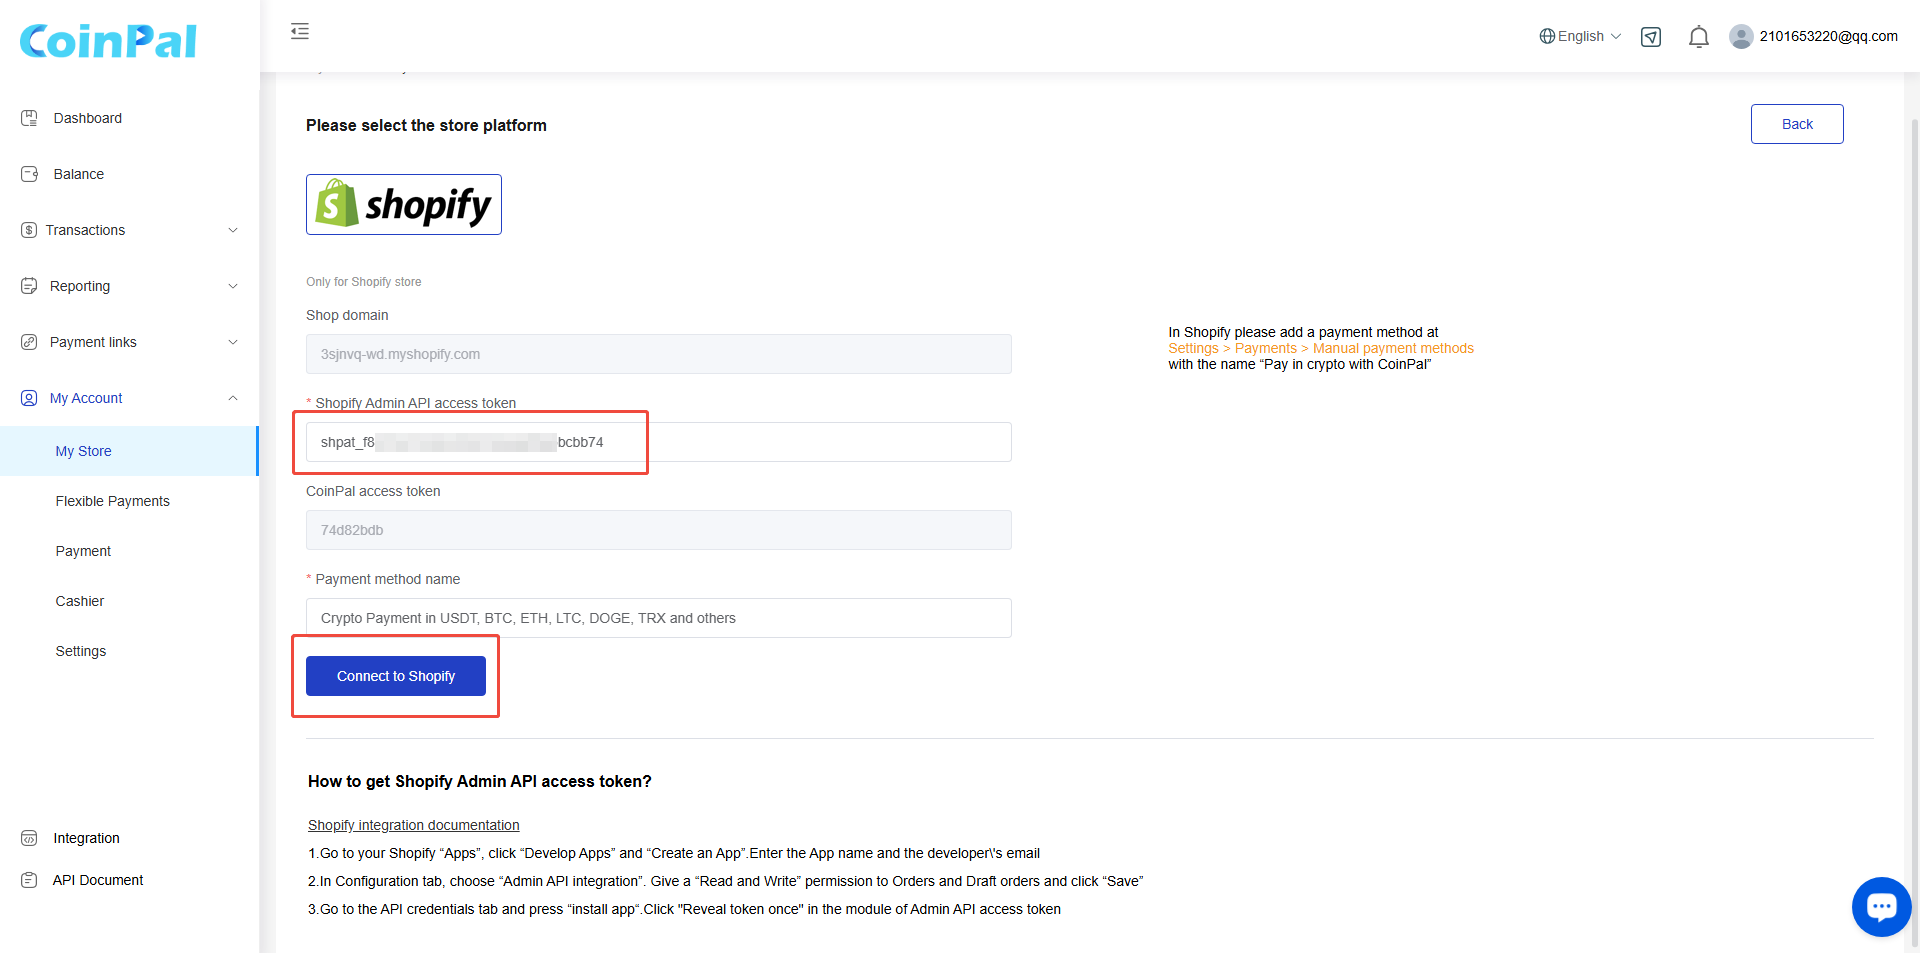
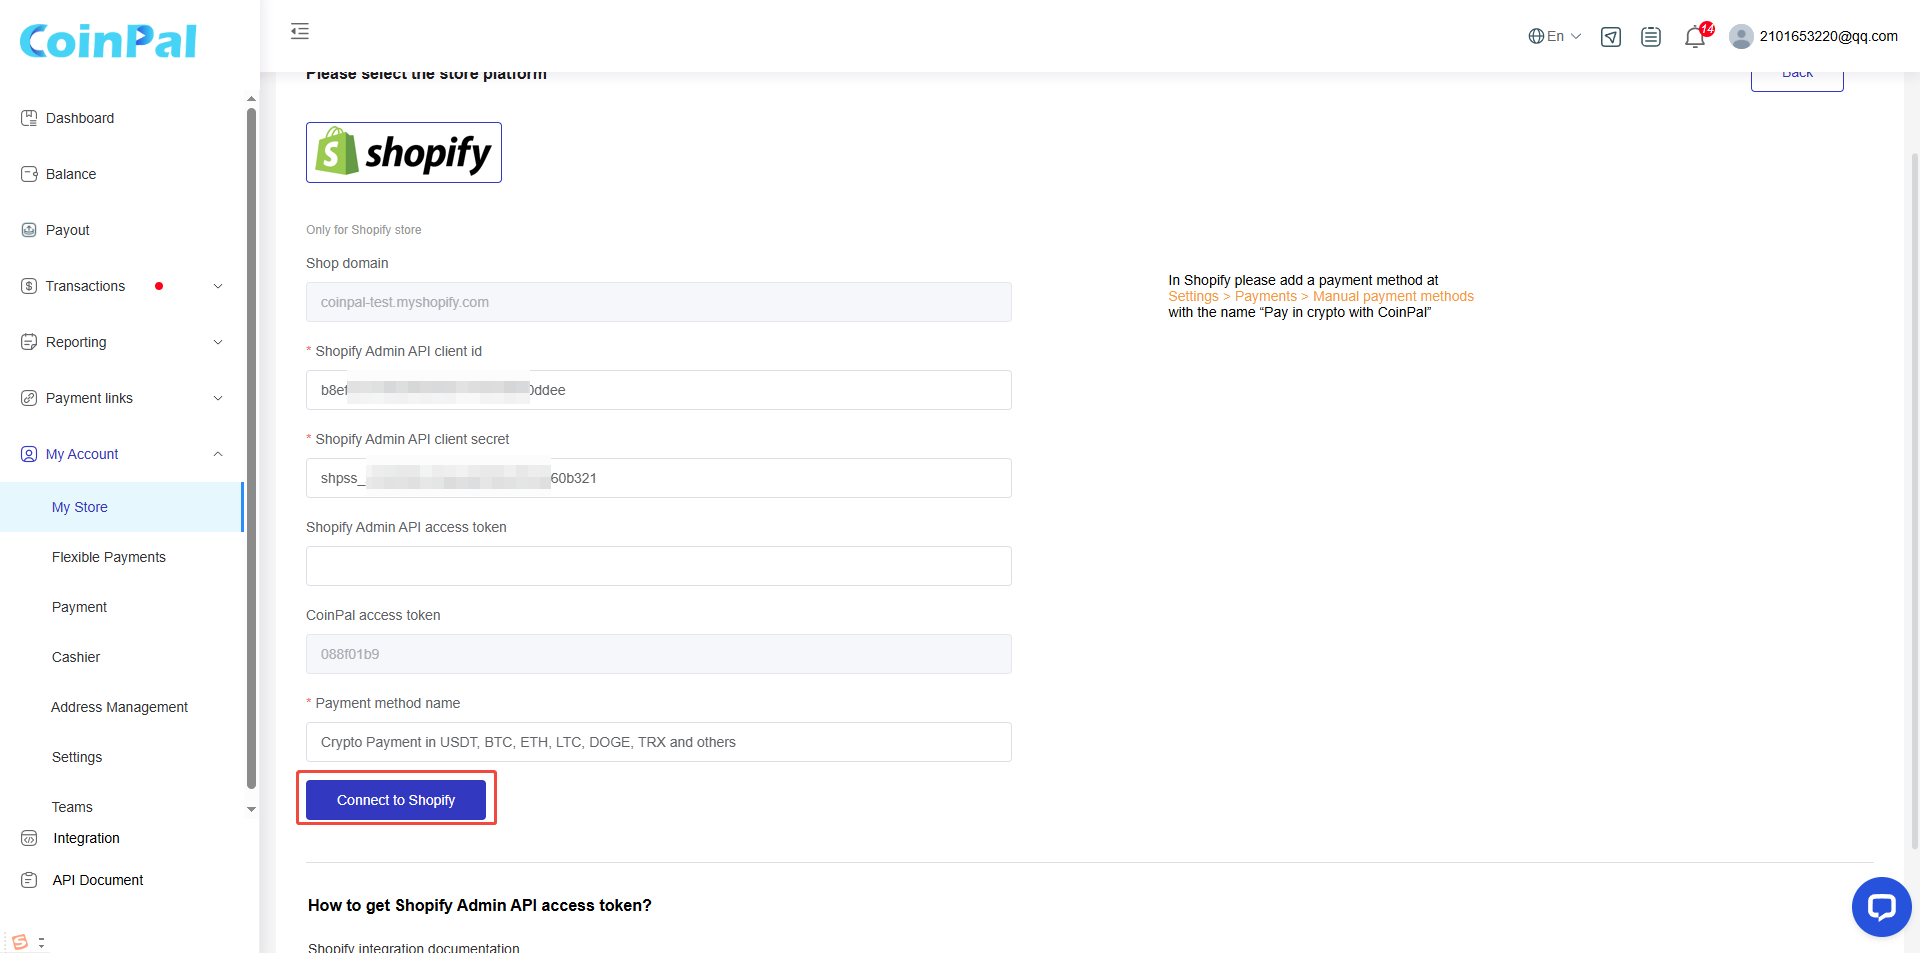
update

diff --git a/README.md b/README.md
@@ -1,24 +1,71 @@
 # How to start accepting crypto on Shopify
 
-## Step 1: Go to your Shopify "Apps", click "Develop Apps" and "Create an App". Enter the App name and the developer's email
+## Step 1: Go to your Shopify "Apps", click "Apps" and "Develop Apps". 
 
 ![](./images/shopify-1.png)
 
-## Step 2: In Configuration tab, choose "Admin API integration". Give a "Read and Write" permission to Orders and Draft orders and click "Save"
+## Step 2: Create Apps.
 
-![](./images/shopify-2.png)
+click "Build apps in Dev Dashboard" and "Create app" and "Create"
 
-## Step 3: Go to the API credentials tab and press "install app". Click "Reveal token once" in the module of Admin API access token
+![](./images/acc1.png)
 
-![](./images/shopify-3.png)
+![](./images/acc2.png)
 
-![](./images/shopify-4.png)
+![](./images/acc3.png)
+
+click "Create version"
+
+![](./images/acc40.png)
+
+click "Request access" 
+
+![](./images/acc41.png)
+
+![](./images/acc42.png)
+
+Select "Store Management" and "App Functionality", then click "Save"
+
+![](./images/acc43.png)
+
+![](./images/acc44.png)
+
+Select "Yes" for all options, then click "Save"
+
+![](./images/acc45.png)
+
+![](./images/acc46.png)
+
+
+Go back to the Coinpal app, open "Versions", then click "Create version"
+
+![](./images/acc47.png)
+
+Select the required permissions, then click "Done" and "Release"
+
+![](./images/acc48.png)
+
+![](./images/acc5.png)
+
+![](./images/acc6.png)
+
+![](./images/acc7.png)
+
+Save the "Client ID" and "Secret"; they will be required in Step 4 when connecting Coinpal to Shopify
+
+![](./images/acc8.png)
+
+## Step 3: Install app.
+
+![](./images/acc9.png)
+
+![](./images/acc10.png)
 
 ## Step 4: Go to your [CoinPal Account](https://portal.coinpal.io/#/admin/myAccount/Business) > My Account > My Store > choose/add store & click "Configuration" > click"Shopify" and fill the fields using the info from the Shopify API credentials tab (access token)
 
 ![](./images/shopify-41.png)
 
-Click "Connect to Shopify"
+Enter the "Client ID" and "Secret" from Step 3, then click "Connect to Shopify"
 
 ![](./images/shopify-42.png)
 
